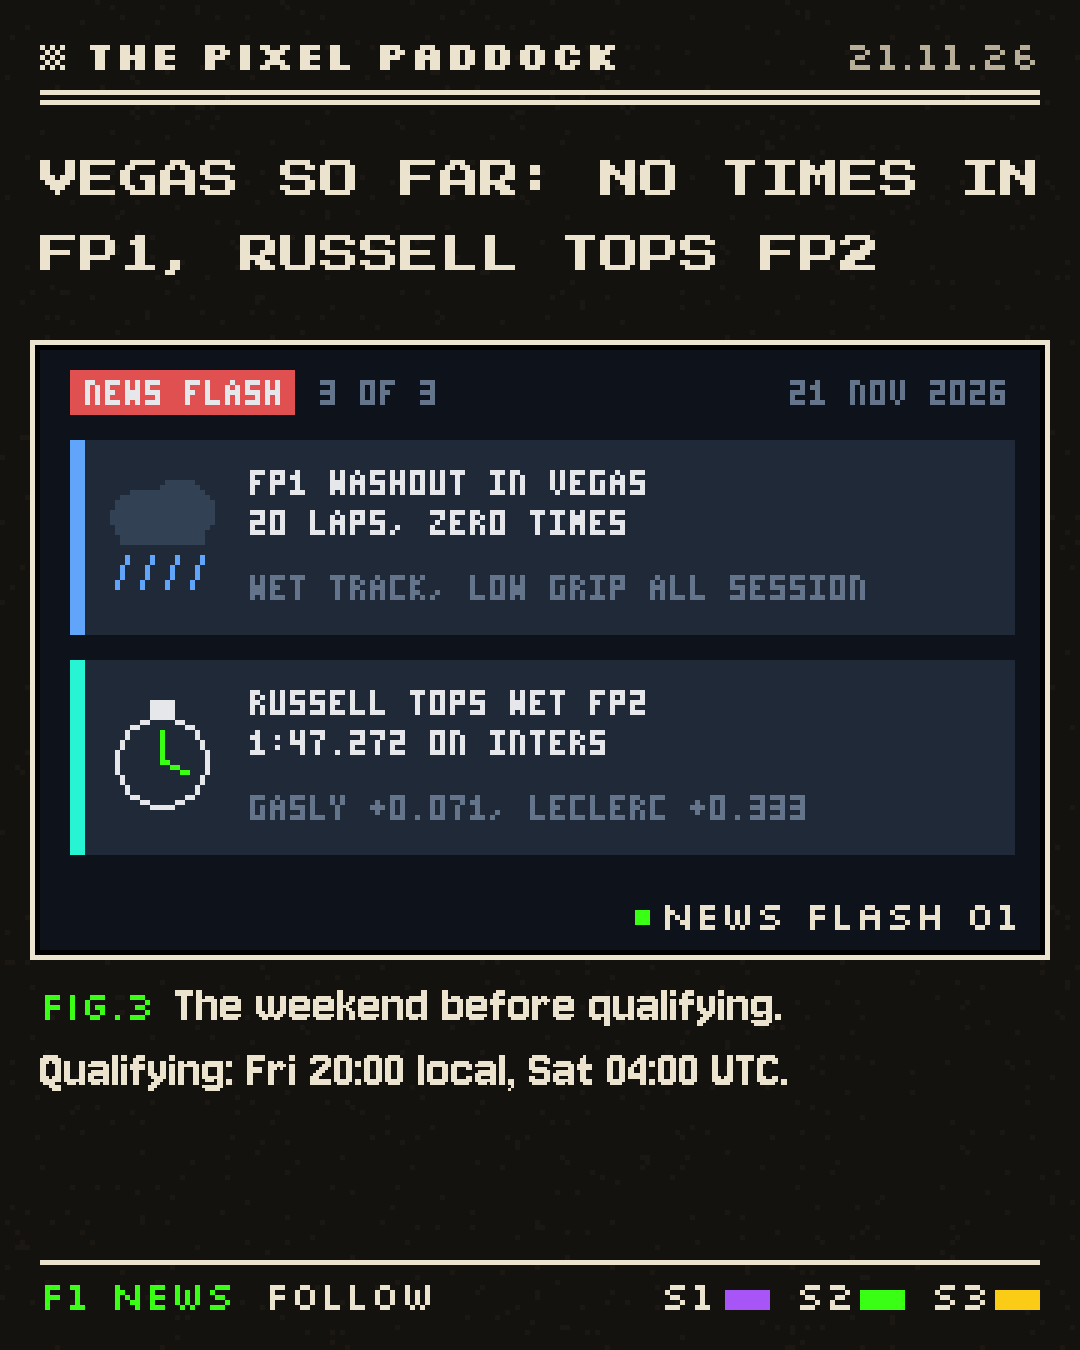
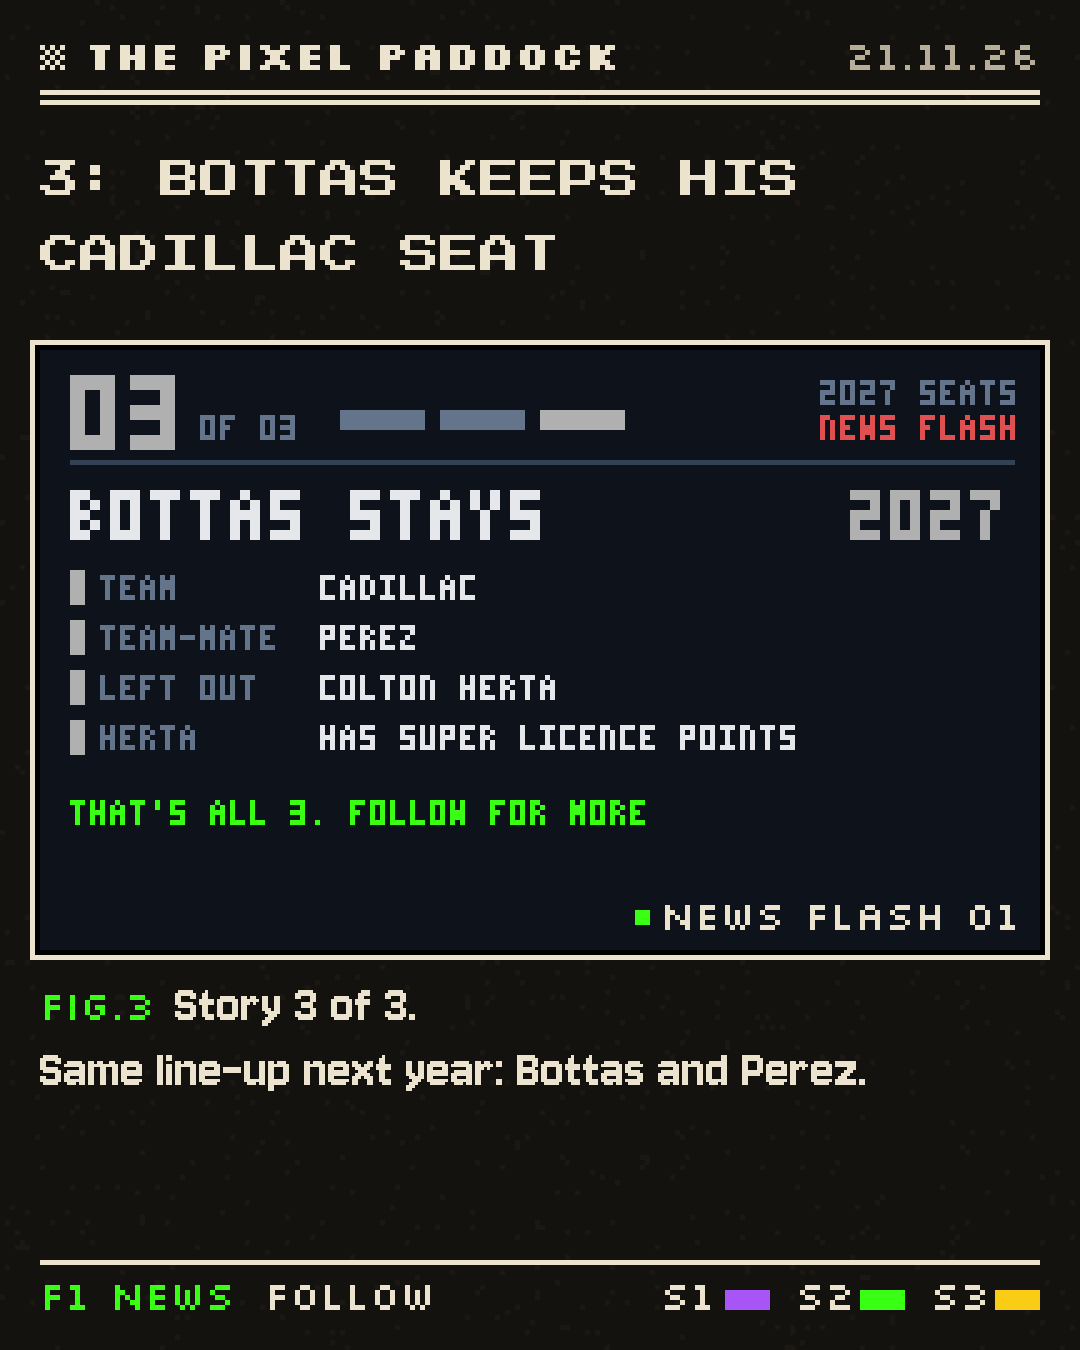
News Flash v2: one story per slide, counter + next teaser
Claude-Session: https://claude.ai/code/session_01XcMK5Sp6yyyARadsj7RYTL

diff --git a/posts/2026-11-21_news-flash/script.py b/posts/2026-11-21_news-flash/script.py
@@ -2,62 +2,54 @@ import os, sys
 sys.path.insert(0, os.path.dirname(os.path.abspath(__file__))); sys.path.insert(0, os.path.join(os.path.dirname(os.path.abspath(__file__)), ".."))
 from PIL import Image, ImageDraw
 exec(open(os.path.join(os.path.dirname(os.path.abspath(__file__)),"post_fri.py")).read().split("def slide(")[0].replace('"out_fri"','"out_flash"').replace('DATE = "07.11.26"','DATE = "21.11.26"').replace('HUD = "23.70S 46.70W"','HUD = "NEWS FLASH 01"'))
-# NEWS FLASH No. 1 (Marius 21.11.: short-headline carousel when there are several small stories).
+# NEWS FLASH No. 1, v2 (Marius 21.11.: clearly 3 stories, one per slide, info first, no noise, swipe prompt).
 # Sources (2 each, year 2026 checked):
-#  V8 2030: FIA press release 20.11.26 + RACER/Motorsport.com/The Race 20.11.26 (2.1 l turbo V8, unanimous, limited hybrid)
-#  Bottas 2027 / Herta: RACER 18.11.26 + PlanetF1 18.11.26 (+ F1.com Towriss 20.11.26)
-#  Piastri -10: F1.com 18.11.26 + PlanetF1 + Autosport (5th ICE, limit 4)
-#  FP1 washout: OpenF1 race control + The Race/PlanetF1 (no times, 20 laps)
-#  FP2: OpenF1 session_result + F1.com (RUS 1:47.272, GAS +0.071, LEC +0.333, inters)
-#  Left out (1 source only): Aron leaves Alpine / Vesti; WMSC Shanghai vote.
-YEL = hx("#f5c542"); BLUE = hx("#60a5fa")
+#  V8 2030: FIA press release 20.11.26 + RACER/Motorsport.com/The Race 20.11.26
+#  Piastri -10: F1.com 18.11.26 + PlanetF1 + Autosport (5th ICE, limit 4, reliability)
+#  Bottas 2027 / Herta: RACER 18.11.26 + PlanetF1 18.11.26 (Herta super licence points, no 2027 seat)
+#  Left out (1 source only): Aron/Vesti Alpine, Herta declined reserve role, WMSC Shanghai vote.
+STORIES = {
+ "v8":  dict(tag="ENGINES", col=GREEN, title=["V8S ARE BACK"], stat="2030",
+             rows=[("ENGINE","2.1 L TURBO V8"),("HYBRID","LIMITED"),("AGREED","UNANIMOUSLY"),("GOAL","LIGHTER, SIMPLER, CHEAPER")],
+             teaser="V8 RETURN"),
+ "pia": dict(tag="VEGAS GRID", col=hx(TC["PIA"]), title=["PIASTRI DROPS"], stat="-10",
+             rows=[("WHY","5TH ENGINE OF 2026"),("LIMIT","4 PER SEASON"),("CAUSE","RELIABILITY ISSUE"),("RACE","SAT 20:00 LOCAL")],
+             teaser="PIASTRI -10"),
+ "bot": dict(tag="2027 SEATS", col=hx(TC["BOT"]), title=["BOTTAS STAYS"], stat="2027",
+             rows=[("TEAM","CADILLAC"),("TEAM-MATE","PEREZ"),("LEFT OUT","COLTON HERTA"),("HERTA","HAS SUPER LICENCE POINTS")],
+             teaser="BOTTAS STAYS"),
+}
 
-def ico_v8(d, x, y):            # V8 block: two banks of 4 cylinders + turbo
-    for i in range(4):
-        r(d, x+2+i*5, y+3, x+5+i*5, y+8, INK); r(d, x+2+i*5, y+13, x+5+i*5, y+18, INK)
-    r(d, x+1, y+9, x+21, y+12, SL); d.ellipse([x+16, y+17, x+23, y+24], outline=GREEN); r(d, x+19, y+20, x+20, y+21, GREEN)
-def ico_seat(d, x, y, col, empty=False):   # driver seat / helmet silhouette
-    d.ellipse([x+5, y+2, x+19, y+16], outline=col, fill=None if empty else col); r(d, x+7, y+7, x+17, y+10, BG if not empty else col)
-    r(d, x+3, y+18, x+21, y+22, col)
-    if empty: d.line([(x+3, y+2), (x+21, y+22)], fill=RED)
-def ico_grid(d, x, y):          # grid slots with -10 arrow
-    for k in range(4): r(d, x+2+(k%2)*10, y+2+k*5, x+8+(k%2)*10, y+4+k*5, SL)
-    d.line([(x+20, y+2), (x+20, y+20)], fill=RED); d.line([(x+17, y+17), (x+20, y+21), (x+23, y+17)], fill=RED)
-def ico_rain(d, x, y):
-    d.ellipse([x+2, y+3, x+14, y+13], fill=SL); d.ellipse([x+9, y+1, x+22, y+13], fill=SL); r(d, x+4, y+9, x+20, y+13, SL)
-    for k in range(4): d.line([(x+5+k*5, y+16), (x+3+k*5, y+22)], fill=BLUE)
-def ico_watch(d, x, y):
-    d.ellipse([x+3, y+4, x+21, y+22], outline=INK); r(d, x+10, y+1, x+14, y+3, INK); d.line([(x+12, y+13), (x+12, y+7)], fill=GREEN); d.line([(x+12, y+13), (x+17, y+15)], fill=GREEN)
+def big(im, x, y, s, col, k=2):
+    t = Image.new("RGB", (len(s)*4+2, 7), BG); tx(ImageDraw.Draw(t), 0, 1, s, col)
+    t = t.resize((t.width*k, t.height*k), Image.NEAREST); im.paste(t, (x, y - k))
 
-def card(d, y, icon, head1, head2, ctx, col):
-    r(d, 6, y, 194, y+38, BOXC); r(d, 6, y, 8, y+38, col)
-    icon(d, 12, y+7)
-    tx(d, 42, y+6, head1, INK); tx(d, 42, y+14, head2, INK); tx(d, 42, y+27, ctx, MUT)
-
-CUR = [1]
-def banner(d, n):
-    n = CUR[0]
-    r(d, 6, 4, 50, 12, RED); tx(d, 9, 6, "NEWS FLASH", INK)
-    tx(d, 56, 6, f"{n} OF 3", MUT); tx(d, 150, 6, "21 NOV 2026", MUT)
-
-def s_engine():
-    im = Image.new("RGB", (200, 120), BG); d = ImageDraw.Draw(im); banner(d, 1)
-    card(d, 18, ico_v8, "V8S RETURN IN 2030", "2.1 L TURBO, LIMITED HYBRID", "FIA, FOM, TEAMS + PU MAKERS: UNANIMOUS", GREEN)
-    card(d, 62, lambda d_, x, y: ico_seat(d_, x, y, hx(TC["BOT"])), "BOTTAS STAYS AT CADILLAC", "NEXT TO PEREZ IN 2027", "LINE-UP UNCHANGED FOR YEAR TWO", hx(TC["BOT"]))
-    calm(d); return im
-def s_grid():
-    im = Image.new("RGB", (200, 120), BG); d = ImageDraw.Draw(im); banner(d, 2)
-    card(d, 18, ico_grid, "PIASTRI: 10-PLACE GRID DROP", "FIFTH ENGINE OF 2026", "LIMIT IS FOUR, RELIABILITY ISSUE", hx(TC["PIA"]))
-    card(d, 62, lambda d_, x, y: ico_seat(d_, x, y, MUT, empty=True), "NO 2027 SEAT FOR HERTA", "DESPITE HIS SUPER LICENCE", "REPORTEDLY TURNED DOWN RESERVE ROLE", MUT)
-    calm(d); return im
-def s_track():
-    im = Image.new("RGB", (200, 120), BG); d = ImageDraw.Draw(im); banner(d, 3)
-    card(d, 18, ico_rain, "FP1 WASHOUT IN VEGAS", "20 LAPS, ZERO TIMES", "WET TRACK, LOW GRIP ALL SESSION", BLUE)
-    card(d, 62, ico_watch, "RUSSELL TOPS WET FP2", "1:47.272 ON INTERS", "GASLY +0.071, LECLERC +0.333", hx(TC["RUS"]))
-    calm(d); return im
+def scene_for(order, i):
+    key = order[i]; st = STORIES[key]
+    def s():
+        im = Image.new("RGB", (200, 120), BG); d = ImageDraw.Draw(im)
+        # story counter: big number + 3-segment progress
+        big(im, 6, 5, f"0{i+1}", st["col"], 3); tx(d, 32, 13, "OF 03", MUT)
+        for j in range(3):
+            r(d, 60+j*20, 12, 76+j*20, 15, st["col"] if j == i else (SL if j > i else MUT))
+        tx(d, 196-len(st["tag"])*4, 6, st["tag"], MUT); tx(d, 196-len("NEWS FLASH")*4, 13, "NEWS FLASH", RED)
+        r(d, 6, 22, 194, 22, SL)
+        # title + key stat
+        for k, ln in enumerate(st["title"]): big(im, 6, 28+k*14, ln, INK, 2)
+        y0 = 28 + len(st["title"])*14
+        big(im, 194-len(st["stat"])*8, 28, st["stat"], st["col"], 2)
+        # fact rows
+        for k, (a, b) in enumerate(st["rows"]):
+            y = y0 + 2 + k*10
+            r(d, 6, y, 8, y+6, st["col"]); tx(d, 12, y+1, a, MUT); tx(d, 56, y+1, b, INK)
+        # swipe / end line
+        yb = y0 + 2 + len(st["rows"])*10 + 6
+        if i < 2: tx(d, 6, yb, f"NEXT: {STORIES[order[i+1]]['teaser']}  >>>", GREEN)
+        else:     tx(d, 6, yb, "THAT'S ALL 3. FOLLOW FOR MORE", GREEN)
+        return im
+    return s
 
 def slide(k, head, scene, figt, bod, foot, name):
-    CUR[0] = k
     im, d = page(k, 3, DATE)
     y = headline(im, head)
     y = cover_image(im, d, scene(), y + 75, HUD)
@@ -65,18 +57,23 @@ def slide(k, head, scene, figt, bod, foot, name):
     body(im, y + 95, bod)
     footer(im, d, k, foot); im.save(f"{OUT}/{name}.png")
 
-# V1: engine first
-slide(1, "NEWS FLASH: V8 ENGINES ARE COMING BACK TO F1 IN 2030", s_engine, "Two headlines you might have missed.", "2.1 litre turbo V8, agreed by everyone involved.", "SWIPE >>>", "1_1")
-slide(2, "PIASTRI DROPS 10 PLACES, HERTA MISSES OUT", s_grid, "Grid and driver market news.", "Bottas stays, so Cadillac has no seat for Herta.", "SWIPE >>>", "1_2")
-slide(3, "VEGAS SO FAR: NO TIMES IN FP1, RUSSELL TOPS FP2", s_track, "The weekend before qualifying.", "Qualifying: Fri 20:00 local, Sat 04:00 UTC.", "FOLLOW", "1_3")
-# V2: Vegas first, future last
-slide(1, "NEWS FLASH: RAIN, A GRID DROP AND THE V8 RETURN", s_track, "Vegas practice in two lines.", "FP1 washed out, FP2 on intermediates.", "SWIPE >>>", "2_1")
-slide(2, "PIASTRI STARTS 10 PLACES BACK ON SATURDAY", s_grid, "Grid and driver market news.", "His fifth combustion engine of the season.", "SWIPE >>>", "2_2")
-slide(3, "2030: TURBO V8S. 2027: BOTTAS STAYS", s_engine, "Looking ahead.", "Simpler, lighter and cheaper power units, says the FIA.", "FOLLOW", "2_3")
-# V3: punchy
-slide(1, "THE V8 IS BACK: F1 AGREES 2030 ENGINE PLAN", s_engine, "News flash, 21 November.", "Plus: Bottas keeps his Cadillac seat.", "SWIPE >>>", "3_1")
-slide(2, "GRID DROP FOR PIASTRI, NO SEAT FOR HERTA", s_grid, "Two drivers, two setbacks.", "Piastri: 5th engine. Herta: no 2027 drive.", "SWIPE >>>", "3_2")
-slide(3, "ZERO TIMES IN FP1, RUSSELL FASTEST IN FP2", s_track, "Las Vegas practice recap.", "Qualifying: Sat 04:00 UTC, 23:00 New York (Fri).", "FOLLOW", "3_3")
+V = {
+ "1": (["v8","pia","bot"], ["NEWS FLASH: 3 STORIES, 3 SWIPES. 1: V8S RETURN IN 2030",
+                            "2: PIASTRI DROPS 10 PLACES IN VEGAS",
+                            "3: BOTTAS KEEPS HIS CADILLAC SEAT"]),
+ "2": (["pia","v8","bot"], ["NEWS FLASH 1 OF 3: PIASTRI 10-PLACE GRID DROP",
+                            "NEWS FLASH 2 OF 3: V8 ENGINES BACK IN 2030",
+                            "NEWS FLASH 3 OF 3: BOTTAS STAYS, HERTA OUT"]),
+ "3": (["v8","bot","pia"], ["THIS WEEK IN 3 SWIPES. 01: THE V8 IS BACK",
+                            "02: BOTTAS STAYS AT CADILLAC FOR 2027",
+                            "03: PIASTRI STARTS 10 PLACES BACK"]),
+}
+FIG = ["Story 1 of 3. Swipe for the next one.", "Story 2 of 3. One more to go.", "Story 3 of 3."]
+BOD = {"v8": "FIA, F1, teams and engine makers all signed up.", "pia": "Fifth combustion engine of the season, limit is four.",
+       "bot": "Same line-up next year: Bottas and Perez."}
+for v, (order, heads) in V.items():
+    for i in range(3):
+        slide(i+1, heads[i], scene_for(order, i), FIG[i], BOD[order[i]], "SWIPE >>>" if i < 2 else "FOLLOW", f"{v}_{i+1}")
 names = [f"{v}_{i}" for v in "123" for i in "123"]
 sh = Image.new("RGB", (3*550+10, 3*685+10), (60, 60, 60))
 for k, n in enumerate(names): sh.paste(Image.open(f"{OUT}/{n}.png").resize((540, 675)), (10+(k%3)*550, 10+(k//3)*685))

diff --git a/toolkit/examples/post_newsflash.py b/toolkit/examples/post_newsflash.py
@@ -2,62 +2,54 @@ import os, sys
 sys.path.insert(0, os.path.dirname(os.path.abspath(__file__))); sys.path.insert(0, os.path.join(os.path.dirname(os.path.abspath(__file__)), ".."))
 from PIL import Image, ImageDraw
 exec(open(os.path.join(os.path.dirname(os.path.abspath(__file__)),"post_fri.py")).read().split("def slide(")[0].replace('"out_fri"','"out_flash"').replace('DATE = "07.11.26"','DATE = "21.11.26"').replace('HUD = "23.70S 46.70W"','HUD = "NEWS FLASH 01"'))
-# NEWS FLASH No. 1 (Marius 21.11.: short-headline carousel when there are several small stories).
+# NEWS FLASH No. 1, v2 (Marius 21.11.: clearly 3 stories, one per slide, info first, no noise, swipe prompt).
 # Sources (2 each, year 2026 checked):
-#  V8 2030: FIA press release 20.11.26 + RACER/Motorsport.com/The Race 20.11.26 (2.1 l turbo V8, unanimous, limited hybrid)
-#  Bottas 2027 / Herta: RACER 18.11.26 + PlanetF1 18.11.26 (+ F1.com Towriss 20.11.26)
-#  Piastri -10: F1.com 18.11.26 + PlanetF1 + Autosport (5th ICE, limit 4)
-#  FP1 washout: OpenF1 race control + The Race/PlanetF1 (no times, 20 laps)
-#  FP2: OpenF1 session_result + F1.com (RUS 1:47.272, GAS +0.071, LEC +0.333, inters)
-#  Left out (1 source only): Aron leaves Alpine / Vesti; WMSC Shanghai vote.
-YEL = hx("#f5c542"); BLUE = hx("#60a5fa")
+#  V8 2030: FIA press release 20.11.26 + RACER/Motorsport.com/The Race 20.11.26
+#  Piastri -10: F1.com 18.11.26 + PlanetF1 + Autosport (5th ICE, limit 4, reliability)
+#  Bottas 2027 / Herta: RACER 18.11.26 + PlanetF1 18.11.26 (Herta super licence points, no 2027 seat)
+#  Left out (1 source only): Aron/Vesti Alpine, Herta declined reserve role, WMSC Shanghai vote.
+STORIES = {
+ "v8":  dict(tag="ENGINES", col=GREEN, title=["V8S ARE BACK"], stat="2030",
+             rows=[("ENGINE","2.1 L TURBO V8"),("HYBRID","LIMITED"),("AGREED","UNANIMOUSLY"),("GOAL","LIGHTER, SIMPLER, CHEAPER")],
+             teaser="V8 RETURN"),
+ "pia": dict(tag="VEGAS GRID", col=hx(TC["PIA"]), title=["PIASTRI DROPS"], stat="-10",
+             rows=[("WHY","5TH ENGINE OF 2026"),("LIMIT","4 PER SEASON"),("CAUSE","RELIABILITY ISSUE"),("RACE","SAT 20:00 LOCAL")],
+             teaser="PIASTRI -10"),
+ "bot": dict(tag="2027 SEATS", col=hx(TC["BOT"]), title=["BOTTAS STAYS"], stat="2027",
+             rows=[("TEAM","CADILLAC"),("TEAM-MATE","PEREZ"),("LEFT OUT","COLTON HERTA"),("HERTA","HAS SUPER LICENCE POINTS")],
+             teaser="BOTTAS STAYS"),
+}
 
-def ico_v8(d, x, y):            # V8 block: two banks of 4 cylinders + turbo
-    for i in range(4):
-        r(d, x+2+i*5, y+3, x+5+i*5, y+8, INK); r(d, x+2+i*5, y+13, x+5+i*5, y+18, INK)
-    r(d, x+1, y+9, x+21, y+12, SL); d.ellipse([x+16, y+17, x+23, y+24], outline=GREEN); r(d, x+19, y+20, x+20, y+21, GREEN)
-def ico_seat(d, x, y, col, empty=False):   # driver seat / helmet silhouette
-    d.ellipse([x+5, y+2, x+19, y+16], outline=col, fill=None if empty else col); r(d, x+7, y+7, x+17, y+10, BG if not empty else col)
-    r(d, x+3, y+18, x+21, y+22, col)
-    if empty: d.line([(x+3, y+2), (x+21, y+22)], fill=RED)
-def ico_grid(d, x, y):          # grid slots with -10 arrow
-    for k in range(4): r(d, x+2+(k%2)*10, y+2+k*5, x+8+(k%2)*10, y+4+k*5, SL)
-    d.line([(x+20, y+2), (x+20, y+20)], fill=RED); d.line([(x+17, y+17), (x+20, y+21), (x+23, y+17)], fill=RED)
-def ico_rain(d, x, y):
-    d.ellipse([x+2, y+3, x+14, y+13], fill=SL); d.ellipse([x+9, y+1, x+22, y+13], fill=SL); r(d, x+4, y+9, x+20, y+13, SL)
-    for k in range(4): d.line([(x+5+k*5, y+16), (x+3+k*5, y+22)], fill=BLUE)
-def ico_watch(d, x, y):
-    d.ellipse([x+3, y+4, x+21, y+22], outline=INK); r(d, x+10, y+1, x+14, y+3, INK); d.line([(x+12, y+13), (x+12, y+7)], fill=GREEN); d.line([(x+12, y+13), (x+17, y+15)], fill=GREEN)
+def big(im, x, y, s, col, k=2):
+    t = Image.new("RGB", (len(s)*4+2, 7), BG); tx(ImageDraw.Draw(t), 0, 1, s, col)
+    t = t.resize((t.width*k, t.height*k), Image.NEAREST); im.paste(t, (x, y - k))
 
-def card(d, y, icon, head1, head2, ctx, col):
-    r(d, 6, y, 194, y+38, BOXC); r(d, 6, y, 8, y+38, col)
-    icon(d, 12, y+7)
-    tx(d, 42, y+6, head1, INK); tx(d, 42, y+14, head2, INK); tx(d, 42, y+27, ctx, MUT)
-
-CUR = [1]
-def banner(d, n):
-    n = CUR[0]
-    r(d, 6, 4, 50, 12, RED); tx(d, 9, 6, "NEWS FLASH", INK)
-    tx(d, 56, 6, f"{n} OF 3", MUT); tx(d, 150, 6, "21 NOV 2026", MUT)
-
-def s_engine():
-    im = Image.new("RGB", (200, 120), BG); d = ImageDraw.Draw(im); banner(d, 1)
-    card(d, 18, ico_v8, "V8S RETURN IN 2030", "2.1 L TURBO, LIMITED HYBRID", "FIA, FOM, TEAMS + PU MAKERS: UNANIMOUS", GREEN)
-    card(d, 62, lambda d_, x, y: ico_seat(d_, x, y, hx(TC["BOT"])), "BOTTAS STAYS AT CADILLAC", "NEXT TO PEREZ IN 2027", "LINE-UP UNCHANGED FOR YEAR TWO", hx(TC["BOT"]))
-    calm(d); return im
-def s_grid():
-    im = Image.new("RGB", (200, 120), BG); d = ImageDraw.Draw(im); banner(d, 2)
-    card(d, 18, ico_grid, "PIASTRI: 10-PLACE GRID DROP", "FIFTH ENGINE OF 2026", "LIMIT IS FOUR, RELIABILITY ISSUE", hx(TC["PIA"]))
-    card(d, 62, lambda d_, x, y: ico_seat(d_, x, y, MUT, empty=True), "NO 2027 SEAT FOR HERTA", "DESPITE HIS SUPER LICENCE", "REPORTEDLY TURNED DOWN RESERVE ROLE", MUT)
-    calm(d); return im
-def s_track():
-    im = Image.new("RGB", (200, 120), BG); d = ImageDraw.Draw(im); banner(d, 3)
-    card(d, 18, ico_rain, "FP1 WASHOUT IN VEGAS", "20 LAPS, ZERO TIMES", "WET TRACK, LOW GRIP ALL SESSION", BLUE)
-    card(d, 62, ico_watch, "RUSSELL TOPS WET FP2", "1:47.272 ON INTERS", "GASLY +0.071, LECLERC +0.333", hx(TC["RUS"]))
-    calm(d); return im
+def scene_for(order, i):
+    key = order[i]; st = STORIES[key]
+    def s():
+        im = Image.new("RGB", (200, 120), BG); d = ImageDraw.Draw(im)
+        # story counter: big number + 3-segment progress
+        big(im, 6, 5, f"0{i+1}", st["col"], 3); tx(d, 32, 13, "OF 03", MUT)
+        for j in range(3):
+            r(d, 60+j*20, 12, 76+j*20, 15, st["col"] if j == i else (SL if j > i else MUT))
+        tx(d, 196-len(st["tag"])*4, 6, st["tag"], MUT); tx(d, 196-len("NEWS FLASH")*4, 13, "NEWS FLASH", RED)
+        r(d, 6, 22, 194, 22, SL)
+        # title + key stat
+        for k, ln in enumerate(st["title"]): big(im, 6, 28+k*14, ln, INK, 2)
+        y0 = 28 + len(st["title"])*14
+        big(im, 194-len(st["stat"])*8, 28, st["stat"], st["col"], 2)
+        # fact rows
+        for k, (a, b) in enumerate(st["rows"]):
+            y = y0 + 2 + k*10
+            r(d, 6, y, 8, y+6, st["col"]); tx(d, 12, y+1, a, MUT); tx(d, 56, y+1, b, INK)
+        # swipe / end line
+        yb = y0 + 2 + len(st["rows"])*10 + 6
+        if i < 2: tx(d, 6, yb, f"NEXT: {STORIES[order[i+1]]['teaser']}  >>>", GREEN)
+        else:     tx(d, 6, yb, "THAT'S ALL 3. FOLLOW FOR MORE", GREEN)
+        return im
+    return s
 
 def slide(k, head, scene, figt, bod, foot, name):
-    CUR[0] = k
     im, d = page(k, 3, DATE)
     y = headline(im, head)
     y = cover_image(im, d, scene(), y + 75, HUD)
@@ -65,18 +57,23 @@ def slide(k, head, scene, figt, bod, foot, name):
     body(im, y + 95, bod)
     footer(im, d, k, foot); im.save(f"{OUT}/{name}.png")
 
-# V1: engine first
-slide(1, "NEWS FLASH: V8 ENGINES ARE COMING BACK TO F1 IN 2030", s_engine, "Two headlines you might have missed.", "2.1 litre turbo V8, agreed by everyone involved.", "SWIPE >>>", "1_1")
-slide(2, "PIASTRI DROPS 10 PLACES, HERTA MISSES OUT", s_grid, "Grid and driver market news.", "Bottas stays, so Cadillac has no seat for Herta.", "SWIPE >>>", "1_2")
-slide(3, "VEGAS SO FAR: NO TIMES IN FP1, RUSSELL TOPS FP2", s_track, "The weekend before qualifying.", "Qualifying: Fri 20:00 local, Sat 04:00 UTC.", "FOLLOW", "1_3")
-# V2: Vegas first, future last
-slide(1, "NEWS FLASH: RAIN, A GRID DROP AND THE V8 RETURN", s_track, "Vegas practice in two lines.", "FP1 washed out, FP2 on intermediates.", "SWIPE >>>", "2_1")
-slide(2, "PIASTRI STARTS 10 PLACES BACK ON SATURDAY", s_grid, "Grid and driver market news.", "His fifth combustion engine of the season.", "SWIPE >>>", "2_2")
-slide(3, "2030: TURBO V8S. 2027: BOTTAS STAYS", s_engine, "Looking ahead.", "Simpler, lighter and cheaper power units, says the FIA.", "FOLLOW", "2_3")
-# V3: punchy
-slide(1, "THE V8 IS BACK: F1 AGREES 2030 ENGINE PLAN", s_engine, "News flash, 21 November.", "Plus: Bottas keeps his Cadillac seat.", "SWIPE >>>", "3_1")
-slide(2, "GRID DROP FOR PIASTRI, NO SEAT FOR HERTA", s_grid, "Two drivers, two setbacks.", "Piastri: 5th engine. Herta: no 2027 drive.", "SWIPE >>>", "3_2")
-slide(3, "ZERO TIMES IN FP1, RUSSELL FASTEST IN FP2", s_track, "Las Vegas practice recap.", "Qualifying: Sat 04:00 UTC, 23:00 New York (Fri).", "FOLLOW", "3_3")
+V = {
+ "1": (["v8","pia","bot"], ["NEWS FLASH: 3 STORIES, 3 SWIPES. 1: V8S RETURN IN 2030",
+                            "2: PIASTRI DROPS 10 PLACES IN VEGAS",
+                            "3: BOTTAS KEEPS HIS CADILLAC SEAT"]),
+ "2": (["pia","v8","bot"], ["NEWS FLASH 1 OF 3: PIASTRI 10-PLACE GRID DROP",
+                            "NEWS FLASH 2 OF 3: V8 ENGINES BACK IN 2030",
+                            "NEWS FLASH 3 OF 3: BOTTAS STAYS, HERTA OUT"]),
+ "3": (["v8","bot","pia"], ["THIS WEEK IN 3 SWIPES. 01: THE V8 IS BACK",
+                            "02: BOTTAS STAYS AT CADILLAC FOR 2027",
+                            "03: PIASTRI STARTS 10 PLACES BACK"]),
+}
+FIG = ["Story 1 of 3. Swipe for the next one.", "Story 2 of 3. One more to go.", "Story 3 of 3."]
+BOD = {"v8": "FIA, F1, teams and engine makers all signed up.", "pia": "Fifth combustion engine of the season, limit is four.",
+       "bot": "Same line-up next year: Bottas and Perez."}
+for v, (order, heads) in V.items():
+    for i in range(3):
+        slide(i+1, heads[i], scene_for(order, i), FIG[i], BOD[order[i]], "SWIPE >>>" if i < 2 else "FOLLOW", f"{v}_{i+1}")
 names = [f"{v}_{i}" for v in "123" for i in "123"]
 sh = Image.new("RGB", (3*550+10, 3*685+10), (60, 60, 60))
 for k, n in enumerate(names): sh.paste(Image.open(f"{OUT}/{n}.png").resize((540, 675)), (10+(k%3)*550, 10+(k//3)*685))
